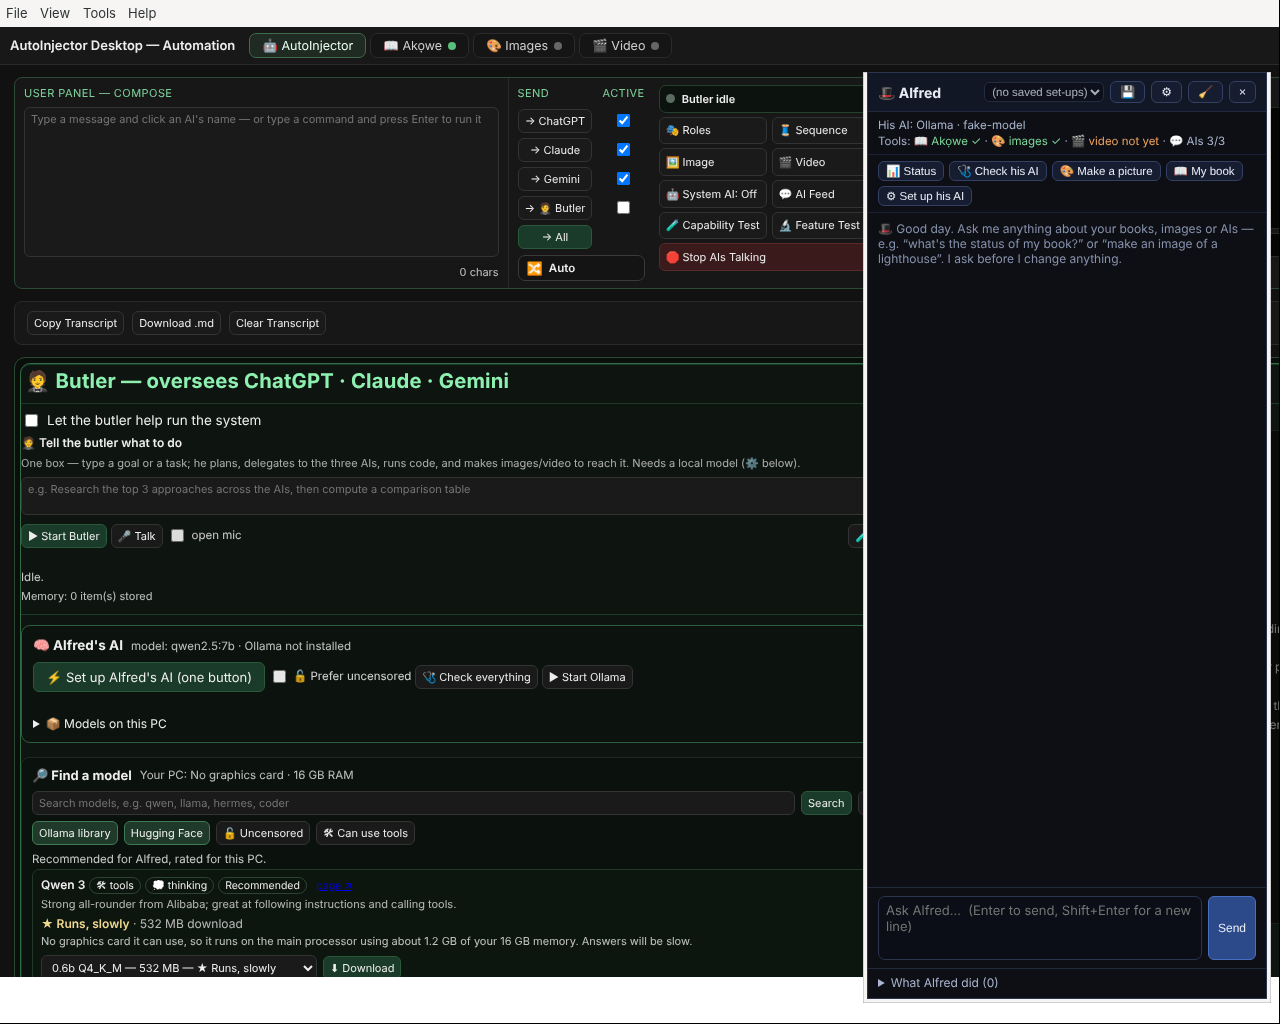
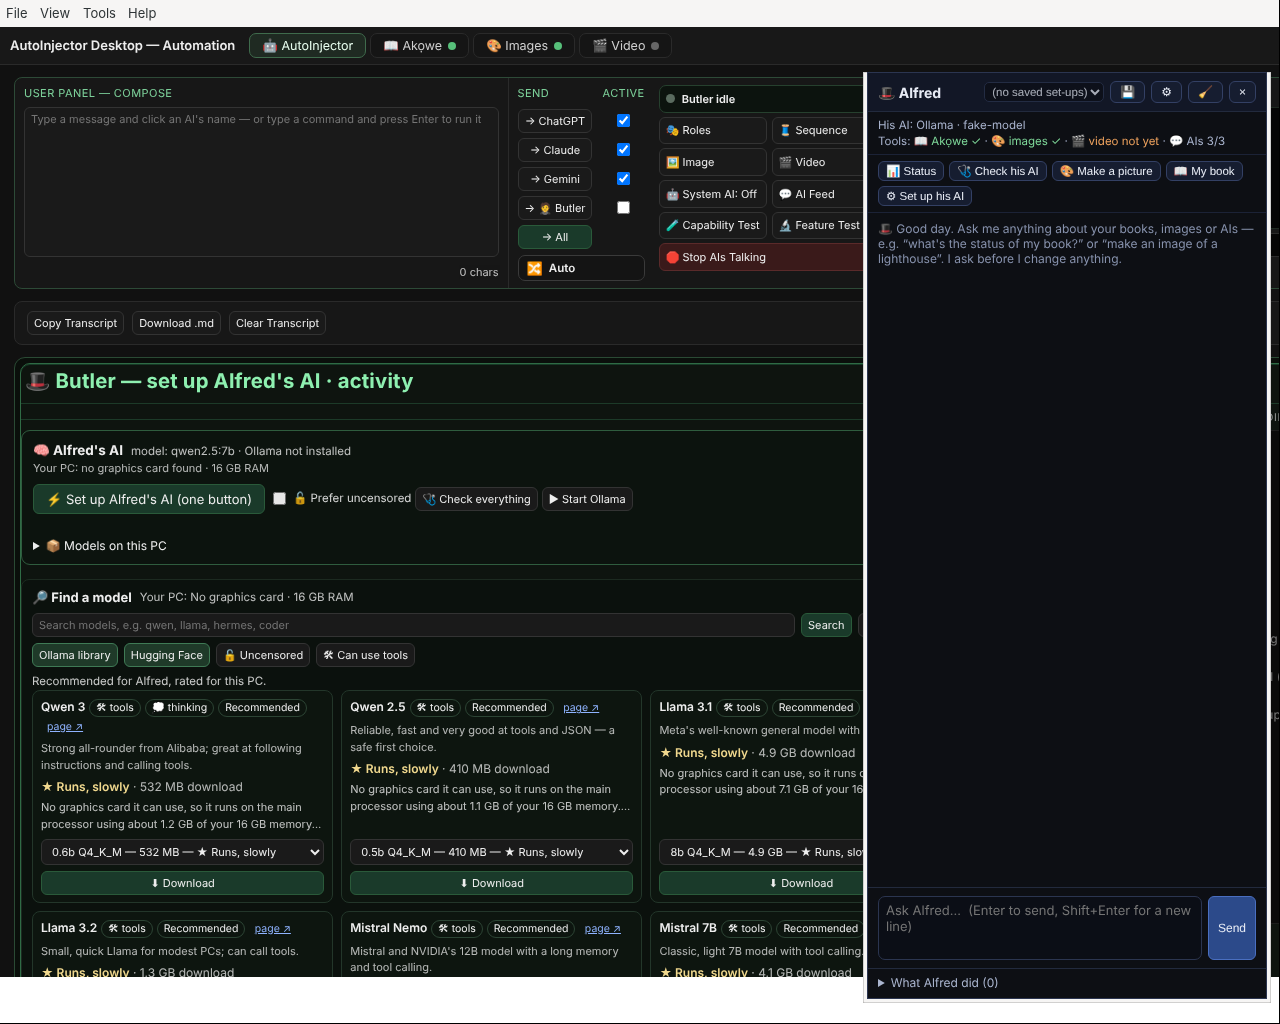
Alfred's local brain: Ollama's own /api/chat with a context window big enough for his ~10k-token tool list (Ollama's default 2-4k cut it off), qwen3 /no_think + <think> text stripped, 5-minute local timeout, the app's Ollama with a 16k context, 30 min keep-alive, flash attention + 8-bit cache, and a
Claude-Session: https://claude.ai/code/session_01CP88yvJiRVKKCUgiUKfcGQ

Changed region(s): [[0.0, 0.3438, 0.6875, 0.9688]]

diff --git a/desktop-app/alfred-ai.js b/desktop-app/alfred-ai.js
@@ -46,8 +46,16 @@ function textReply(content) {
 }
 
 /** Normalize one OpenAI-style assistant message -> { content, toolCalls:[{id,name,args,native}] }. */
+/** Reasoning models (qwen3, deepseek-r1 …) can put their thinking in the answer: <think>…</think>. Drop it. */
+function stripThinking(text) {
+  let t = String(text || '');
+  t = t.replace(/<think>[\s\S]*?<\/think>/gi, '');
+  if (/<\/think>/i.test(t)) t = t.slice(t.search(/<\/think>/i) + 8); // the opening tag was cut off
+  if (/^\s*<think>/i.test(t)) t = ''; // thinking that never finished: nothing usable
+  return t.trim();
+}
 function normalizeMessage(m) {
-  const content = m && typeof m.content === 'string' ? m.content : '';
+  const content = m && typeof m.content === 'string' ? stripThinking(m.content) : '';
   const calls = [];
   for (const tc of (m && Array.isArray(m.tool_calls) ? m.tool_calls : [])) {
     const fn = tc && (tc.function || tc);
@@ -101,6 +109,80 @@ async function chatWithTools({ endpoint, apiKey, model, messages, tools, timeout
     clearTimeout(timer);
     if (signal) signal.removeEventListener('abort', onAbort);
   }
+}
+
+// ---------------------------------------------------------------------------- Ollama's own API
+// Ollama's OpenAI-compatible /v1 cannot set the context size, and Ollama's default (2–4k tokens) is far smaller
+// than Alfred's tool list (~10k tokens): the model would silently lose its instructions and tools. Ollama's own
+// /api/chat takes options.num_ctx per request, so a local brain on Ollama uses it (falls back to /v1 otherwise).
+const nativeBases = new Map(); // base -> true (use /api/chat) | false (not Ollama: use /v1)
+const ollamaBase = (endpoint) => baseUrl(endpoint).replace(/\/v1$/, '');
+/** The context window a request needs: everything we send, with room for the answer, in 4k steps (8k–32k). */
+function contextFor(messages, tools) {
+  const chars = JSON.stringify(messages || []).length + JSON.stringify(tools || []).length;
+  const tokens = Math.ceil(chars / 3.2) + 2048;
+  return Math.min(32768, Math.max(8192, Math.ceil(tokens / 4096) * 4096));
+}
+/** OpenAI-shaped history -> Ollama /api/chat messages (tool calls carry objects, tool results carry tool_name). */
+function toOllamaMessages(messages) {
+  return (messages || []).map((m) => {
+    if (m.role === 'tool') return { role: 'tool', content: String(m.content == null ? '' : m.content), tool_name: m.name || undefined };
+    const out = { role: m.role, content: String(m.content == null ? '' : m.content) };
+    if (Array.isArray(m.tool_calls) && m.tool_calls.length) {
+      out.tool_calls = m.tool_calls.map((tc) => {
+        const fn = tc.function || tc; let args = fn.arguments;
+        if (typeof args === 'string') { try { args = args.trim() ? JSON.parse(args) : {}; } catch (_) { args = {}; } }
+        return { function: { name: fn.name, arguments: args && typeof args === 'object' ? args : {} } };
+      });
+    }
+    return out;
+  });
+}
+async function ollamaChat({ endpoint, model, messages, tools, timeoutMs, signal, temperature }) {
+  const base = ollamaBase(endpoint);
+  const controller = new AbortController();
+  const onAbort = () => controller.abort();
+  if (signal) { if (signal.aborted) return { ok: false, kind: 'cancelled' }; signal.addEventListener('abort', onAbort, { once: true }); }
+  let timedOut = false;
+  const timer = setTimeout(() => { timedOut = true; controller.abort(); }, Math.max(1000, timeoutMs || 300000));
+  try {
+    const body = { model, messages: toOllamaMessages(messages), stream: false, keep_alive: '30m', options: { num_ctx: contextFor(messages, tools), temperature: temperature == null ? 0.2 : temperature } };
+    if (tools && tools.length) body.tools = tools;
+    let res;
+    try { res = await fetch(`${base}/api/chat`, { method: 'POST', headers: { 'Content-Type': 'application/json' }, body: JSON.stringify(body), signal: controller.signal }); }
+    catch (e) {
+      if (signal && signal.aborted) return { ok: false, kind: 'cancelled' };
+      if (timedOut || (e && e.name === 'AbortError')) return { ok: false, kind: 'timeout' };
+      return { ok: false, kind: 'network', detail: String(e && e.cause ? `${e.message} (${e.cause.code || e.cause.message || ''})` : e).slice(0, 300) };
+    }
+    if (!res.ok) {
+      let detail = ''; try { detail = await res.text(); } catch (_) { /* best effort */ }
+      return { ok: false, kind: 'http', status: res.status, detail: String(detail).slice(0, 400), noTools: res.status === 400 && /tool/i.test(detail), notOllama: res.status === 404 && !/model/i.test(detail) };
+    }
+    let j; try { j = await res.json(); } catch (_) { return { ok: false, kind: 'bad-body' }; }
+    if (!j || !j.message) return { ok: false, kind: 'bad-body', notOllama: true };
+    return { ok: true, message: normalizeMessage(j.message), numCtx: body.options.num_ctx };
+  } finally {
+    clearTimeout(timer);
+    if (signal) signal.removeEventListener('abort', onAbort);
+  }
+}
+/** Is this endpoint an Ollama server (it has /api/version)? Cached per address. */
+async function isOllama(endpoint) {
+  const base = ollamaBase(endpoint);
+  if (nativeBases.has(base)) return nativeBases.get(base);
+  let yes = false;
+  try {
+    const c = new AbortController(); const t = setTimeout(() => c.abort(), 2500);
+    try { const r = await fetch(`${base}/api/version`, { signal: c.signal }); if (r.ok) { const j = await r.json().catch(() => null); yes = !!(j && typeof j.version === 'string'); } } finally { clearTimeout(t); }
+  } catch (_) { yes = false; }
+  nativeBases.set(base, yes);
+  return yes;
+}
+/** qwen3's documented switch to answer without a long thinking pass (faster, and nothing to strip). */
+function withNoThink(messages, model) {
+  if (!/qwen3/i.test(String(model || ''))) return messages;
+  return messages.map((m, i) => (i === 0 && m.role === 'system' && !/\/no_think/.test(m.content) ? Object.assign({}, m, { content: `${m.content}\n/no_think` }) : m));
 }
 
 /** Is an OpenAI-compatible server answering? GET {base}/models. */
@@ -157,6 +239,16 @@ async function next(cfg, messages, tools, deps = {}, opts = {}) {
     if (!r || !r.ok) return { ok: false, kind: r && r.error === 'TIMEOUT' ? 'timeout' : 'network', error: (r && r.error) || 'PANE_FAILED' };
     return { ok: true, message: normalizeMessage({ content: String(r.text || '') }) };
   }
+  if (cfg.kind === 'local') messages = withNoThink(messages, cfg.model);
+  if (cfg.kind === 'local' && !cfg.noNative && await isOllama(cfg.endpoint)) {
+    let n = await ollamaChat({ endpoint: cfg.endpoint, model: cfg.model, messages, tools, timeoutMs: cfg.timeoutMs, signal: opts.signal });
+    if (!n.ok && n.noTools) {
+      const m2 = messages.slice(); m2.splice(1, 0, { role: 'system', content: `${TEXT_PROTOCOL}\n\nTools:\n${toolCatalogText(tools)}` });
+      n = await ollamaChat({ endpoint: cfg.endpoint, model: cfg.model, messages: m2.map((m) => (m.role === 'tool' ? { role: 'user', content: `Result of ${m.name || 'the tool'}: ${m.content}` } : m)), tools: null, timeoutMs: cfg.timeoutMs, signal: opts.signal });
+    }
+    if (n.ok || !n.notOllama) return n;
+    nativeBases.set(ollamaBase(cfg.endpoint), false); // not Ollama after all: use /v1 from now on
+  }
   const base = { endpoint: cfg.endpoint, apiKey: cfg.apiKey, model: cfg.model, timeoutMs: cfg.timeoutMs, signal: opts.signal };
   let r = await chatWithTools(Object.assign({ messages, tools }, base));
   if (!r.ok && r.noTools) {
@@ -168,4 +260,4 @@ async function next(cfg, messages, tools, deps = {}, opts = {}) {
   return r;
 }
 
-module.exports = { DEFAULT_LOCAL_BASE, chatUrl, baseUrl, chatWithTools, probe, next, normalizeMessage, panePrompt, textToolCall, TEXT_PROTOCOL };
+module.exports = { DEFAULT_LOCAL_BASE, chatUrl, baseUrl, chatWithTools, probe, next, normalizeMessage, panePrompt, textToolCall, TEXT_PROTOCOL, stripThinking, contextFor, toOllamaMessages, ollamaChat, isOllama, _resetOllamaCache: () => nativeBases.clear() };

diff --git a/desktop-app/test/alfred-ollama.test.js b/desktop-app/test/alfred-ollama.test.js
@@ -1,0 +1,77 @@
+'use strict';
+// test/alfred-ollama.test.js — Alfred's local brain on Ollama's own /api/chat: a context window big enough for
+// his tool list (Ollama's default would cut it off), qwen3 without its thinking pass, <think> text removed,
+// tool calls and tool results in Ollama's shape, and the /v1 fallback for servers that aren't Ollama.
+// Run: node test/alfred-ollama.test.js
+const http = require('http');
+const ai = require('../alfred-ai');
+const tools = require('../alfred-tools');
+
+let passed = 0, failed = 0;
+function assert(c, m) { if (c) { passed++; console.log(`  ok   - ${m}`); } else { failed++; console.log(`  FAIL - ${m}`); } return c; }
+
+function fakeServer({ ollama = true, reply }) {
+  const st = { chats: [], v1: [] };
+  const srv = http.createServer((req, res) => {
+    let body = ''; req.on('data', (c) => { body += c; });
+    req.on('end', () => {
+      const j = (() => { try { return JSON.parse(body || '{}'); } catch (_) { return {}; } })();
+      const send = (code, o) => { res.writeHead(code, { 'Content-Type': 'application/json' }); res.end(JSON.stringify(o)); };
+      if (ollama && req.url === '/api/version') return send(200, { version: '0.12.3' });
+      if (ollama && req.url === '/api/chat') { st.chats.push(j); return send(200, { model: j.model, message: reply(j) }); }
+      if (req.url === '/v1/chat/completions') { st.v1.push(j); return send(200, { choices: [{ message: { role: 'assistant', content: 'from v1' } }] }); }
+      res.writeHead(404); res.end('404 page not found');
+    });
+  });
+  return new Promise((r) => srv.listen(0, '127.0.0.1', () => r({ st, srv, ep: `http://127.0.0.1:${srv.address().port}/v1` })));
+}
+
+(async () => {
+  console.log('\n== thinking text ==');
+  assert(ai.stripThinking('<think>let me see…</think>\nHello!') === 'Hello!', '<think>…</think> is removed');
+  assert(ai.stripThinking('half a thought</think> Done.') === 'Done.', 'a cut-off opening tag is handled');
+  assert(ai.stripThinking('<think>never finished') === '', 'unfinished thinking gives nothing (not the thoughts)');
+  assert(ai.normalizeMessage({ content: '<think>hmm</think>{"tool":"book_status","args":{}}' }).toolCalls[0].name === 'book_status', 'a text tool call after thinking is still understood');
+
+  console.log('\n== the context window ==');
+  const all = tools.openAiTools();
+  const need = ai.contextFor([{ role: 'system', content: 'x'.repeat(2000) }, { role: 'user', content: 'hi' }], all);
+  assert(need >= 12288 && need % 4096 === 0 && need <= 32768, `Alfred's full tool list asks for ${need} tokens (Ollama's default 2–4k would cut it off)`);
+  assert(ai.contextFor([{ role: 'user', content: 'hi' }], []) === 8192, 'a tiny request still gets 8k');
+  assert(ai.contextFor([{ role: 'user', content: 'x'.repeat(400000) }], all) === 32768, 'capped at 32k');
+
+  console.log('\n== Ollama /api/chat ==');
+  ai._resetOllamaCache();
+  const o = await fakeServer({ reply: (j) => (j.messages.some((m) => m.role === 'tool')
+    ? { role: 'assistant', content: '<think>ok</think>Your book is in chapter 3.' }
+    : { role: 'assistant', content: '', tool_calls: [{ function: { name: 'book_status', arguments: { project: 'p1' } } }] }) });
+  const cfg = { kind: 'local', endpoint: o.ep, model: 'qwen3:14b', timeoutMs: 5000 };
+  const msgs = [{ role: 'system', content: 'You are Alfred.' }, { role: 'user', content: 'status?' }];
+  let r = await ai.next(cfg, msgs, all);
+  const sent = o.st.chats[0];
+  assert(r.ok && o.st.v1.length === 0 && sent, 'an Ollama server is talked to through /api/chat, not /v1');
+  assert(sent.options.num_ctx >= 12288 && sent.keep_alive === '30m' && sent.stream === false, `num_ctx ${sent.options.num_ctx}, keep_alive 30m`);
+  assert(/\/no_think$/.test(sent.messages[0].content) && msgs[0].content === 'You are Alfred.', 'qwen3: /no_think added to the system message (the caller\'s copy untouched)');
+  assert(Array.isArray(sent.tools) && sent.tools.length === all.length, 'the tools are sent');
+  assert(r.message.toolCalls[0].name === 'book_status' && r.message.toolCalls[0].args.project === 'p1', 'Ollama\'s tool call (arguments as an object) is understood');
+  const hist = msgs.concat([{ role: 'assistant', content: '', tool_calls: [{ id: 'c1', type: 'function', function: { name: 'book_status', arguments: '{"project":"p1"}' } }] }, { role: 'tool', tool_call_id: 'c1', name: 'book_status', content: '{"ok":true}' }]);
+  r = await ai.next(cfg, hist, all);
+  const s2 = o.st.chats[1];
+  assert(s2.messages[2].tool_calls[0].function.arguments.project === 'p1' && s2.messages[3].role === 'tool' && s2.messages[3].tool_name === 'book_status', 'history is sent in Ollama\'s shape (arguments as objects, tool_name on results)');
+  assert(r.ok && r.message.content === 'Your book is in chapter 3.', 'the answer comes back without its thinking');
+  r = await ai.next(Object.assign({}, cfg, { model: 'llama3.1:8b' }), msgs, all);
+  assert(!/no_think/.test(o.st.chats[2].messages[0].content), 'other models are not sent /no_think');
+  o.srv.close();
+
+  console.log('\n== not Ollama: the OpenAI-compatible /v1 as before ==');
+  const v = await fakeServer({ ollama: false });
+  r = await ai.next({ kind: 'local', endpoint: v.ep, model: 'some-model', timeoutMs: 5000 }, msgs, all);
+  assert(r.ok && v.st.v1.length === 1 && r.message.content === 'from v1', 'LM Studio / llama.cpp style servers still work through /v1');
+  v.srv.close();
+
+  console.log('\n== a wrong call gets the right shape back ==');
+  assert(tools.usage(tools.get('generate_video')).startsWith('generate_video({prompt?: string'), `usage: ${tools.usage(tools.get('generate_video'))}`);
+
+  console.log(`\n${passed} passed, ${failed} failed`);
+  process.exit(failed ? 1 : 0);
+})().catch((e) => { console.error(e); process.exit(1); });

diff --git a/desktop-app/alfred.js b/desktop-app/alfred.js
@@ -381,13 +381,15 @@ function createAlfred(deps = {}) {
       return brainLib.DEFAULT_LOCAL_BASE;
     };
     const api = () => { try { const c = deps.managerConfig && deps.managerConfig(); return c && c.endpoint && c.model ? c : null; } catch (_) { return null; } };
-    if (settings.brain === 'local') return Object.assign(base, { kind: 'local', endpoint: localEndpoint(), model: settings.local.model });
+    // A local model can be slow (big model, part on the processor, first load): give it at least 5 minutes.
+    const localTimeout = Math.max(settings.aiTimeoutMs, 300000);
+    if (settings.brain === 'local') return Object.assign(base, { kind: 'local', endpoint: localEndpoint(), model: settings.local.model, timeoutMs: localTimeout });
     if (settings.brain === 'pane') return Object.assign(base, { kind: 'pane', site: settings.pane.site, timeoutMs: Math.max(settings.aiTimeoutMs, 180000) });
     if (settings.brain === 'api') { const c = api(); return c ? Object.assign(base, { kind: 'api', endpoint: c.endpoint, apiKey: c.apiKey, model: c.model }) : Object.assign(base, { kind: 'api', missing: true }); }
     // auto: the local model when it answers, else the connected API
     const ep = localEndpoint();
     const pr = await brainLib.probe({ endpoint: ep, timeoutMs: 2500 });
-    if (pr.reachable) return Object.assign(base, { kind: 'local', endpoint: ep, model: settings.local.model });
+    if (pr.reachable) return Object.assign(base, { kind: 'local', endpoint: ep, model: settings.local.model, timeoutMs: localTimeout });
     const c = api();
     if (c) return Object.assign(base, { kind: 'api', endpoint: c.endpoint, apiKey: c.apiKey, model: c.model });
     return Object.assign(base, { kind: 'local', endpoint: ep, model: settings.local.model, unreachable: true });
@@ -538,7 +540,7 @@ function createAlfred(deps = {}) {
         }
         if (!v.ok) {
           log('alfred-refused', { req: r.id, tool: tool.name, reason: 'BAD_ARGS', why: String(v.error || '').replace(/"[^"]*"|'[^']*'|“[^”]*”/g, '…').slice(0, 140) });
-          history.push(toolMessage(call, { ok: false, error: 'BAD_ARGS', message: `The arguments for ${tool.name} were not right: ${v.error}.` }));
+          history.push(toolMessage(call, { ok: false, error: 'BAD_ARGS', message: `The arguments for ${tool.name} were not right: ${v.error}. Call it again like this (? = optional): ${typeof registry.usage === 'function' ? registry.usage(tool) : tool.name}` }));
           continue;
         }
         if (tool.interpreter) {

diff --git a/desktop-app/ollama-manager.js b/desktop-app/ollama-manager.js
@@ -142,6 +142,11 @@ function pull(model, onProgress, opts = {}) {
 }
 
 // --- The app's own Ollama server -------------------------------------------
+// Settings for the app's own server (the user's own environment variables win):
+//  - a context window big enough for Alfred's tool list (Ollama's default 2–4k tokens silently cuts it off);
+//  - keep a model loaded for 30 minutes (no 10–60 s reload after every short pause);
+//  - flash attention + an 8-bit context cache: the bigger context costs about half the graphics memory.
+const MANAGED_DEFAULTS = Object.freeze({ OLLAMA_CONTEXT_LENGTH: '16384', OLLAMA_KEEP_ALIVE: '30m', OLLAMA_FLASH_ATTENTION: '1', OLLAMA_KV_CACHE_TYPE: 'q8_0' });
 // We run `ollama serve` ourselves with OLLAMA_MODELS pointed at the shared
 // models/llm folder and OLLAMA_HOST on a dedicated port. Then everything the
 // app pulls (which we target at this same host) is stored in "stuff and thing".
@@ -164,7 +169,7 @@ function startManaged(opts = {}) {
   try {
     child = spawnFn(bin, ['serve'], {
       windowsHide: true,
-      env: Object.assign({}, process.env, { OLLAMA_HOST: host, OLLAMA_MODELS: modelsDir }),
+      env: Object.assign({}, MANAGED_DEFAULTS, process.env, { OLLAMA_HOST: host, OLLAMA_MODELS: modelsDir }),
     });
   } catch (e) { return { ok: false, error: String((e && e.message) || e) }; }
   _managed = { child, host, modelsDir };
@@ -255,7 +260,7 @@ function migrateStore(opts = {}) {
 }
 
 module.exports = {
-  DEFAULT_ENDPOINT, DEFAULT_MANAGED_HOST,
+  DEFAULT_ENDPOINT, DEFAULT_MANAGED_HOST, MANAGED_DEFAULTS,
   detect, listInstalled, recommended, recommendedUncensored, pull, setBin, getBin,
   defaultStoreDir, startManaged, stopManaged, managedStatus, waitReady, migrateStore,
 };

diff --git a/desktop-app/alfred-tools.js b/desktop-app/alfred-tools.js
@@ -1242,8 +1242,20 @@ function allowableKey(key) {
 }
 function allowKeyOf(tool, args) { return typeof tool.allowKey === 'function' ? tool.allowKey(args || {}) : tool.name; }
 function canAllowAlways(tool, args) { return typeof tool.allowAlwaysFor === 'function' ? !!tool.allowAlwaysFor(args || {}) : !!tool.allowAlways; }
+/** "name(a, b?, mode?: x|y)" — what a model should send, for the "arguments were not right" reply. */
+function usage(tool) {
+  try {
+    const sch = (tool && tool.args) || {}; const props = sch.properties || {}; const req = new Set(sch.required || []);
+    const parts = Object.keys(props).slice(0, 16).map((k) => {
+      const p = props[k] || {};
+      const kind = Array.isArray(p.enum) ? `: ${p.enum.slice(0, 8).join('|')}` : p.type ? `: ${p.type}` : '';
+      return `${k}${req.has(k) ? '' : '?'}${kind}`;
+    });
+    return `${tool.name}({${parts.join(', ')}})`;
+  } catch (_) { return tool && tool.name ? `${tool.name}({…})` : ''; }
+}
 function describe(tool, args) {
   try { return typeof tool.describe === 'function' ? tool.describe(args || {}) : tool.title; } catch (_) { return tool.title; }
 }
 
-module.exports = { TOOLS, SITES, SITE_LABEL, get, list, openAiTools, publicList, validate, describe, directToolFor, akoweError, allowableKey, allowKeyOf, canAllowAlways, checkPassthrough, _resolveBook: resolveBook };
+module.exports = { TOOLS, SITES, SITE_LABEL, get, list, openAiTools, publicList, validate, describe, usage, directToolFor, akoweError, allowableKey, allowKeyOf, canAllowAlways, checkPassthrough, _resolveBook: resolveBook };
